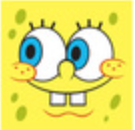
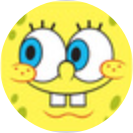
added round spongebob faces

diff --git a/client/app/scripts/controllers/modalCtrl.js b/client/app/scripts/controllers/modalCtrl.js
@@ -4,29 +4,29 @@ angular.module('FamilySleep').controller('ModalCrtl', function($uibModal, $log, 
 	var $ctrl = this;	 
 	var moodImages = [
 		{ 	name:'good',
-			image:'images/faces/good.PNG'
+			image:'images/faces/good.png'
 		}, 
 		{	name:'happy',
-			image:'images/faces/happy.PNG'
+			image:'images/faces/happy.png'
 		},
 		{	name:'nightmare',
-			image: 'images/faces/nightmare.PNG'
+			image: 'images/faces/nightmare.png'
 		},
 		{	name:'sneaky',
-			image: 'images/faces/sneaky.PNG'
+			image: 'images/faces/sneaky.png'
 		},
 		{	name:'tired',
-		 	image:'images/faces/tired.PNG'
+		 	image:'images/faces/tired.png'
 		},
 		{	name:'tired_more',
-		 	image:'images/faces/tired_more.PNG'
+		 	image:'images/faces/tired_more.png'
 		},
 		{	name:'tired',
-		 	image:'images/faces/tired.PNG'
+		 	image:'images/faces/tired.png'
 		}];
   $ctrl.items = moodImages;
 	//var avatars = [];
-  var avatar = 'images/avatars/momcircle.PNG';
+  var avatar = 'images/avatars/momcircle.png';
 	$ctrl.profile = avatar;
   //family members
   /****IMPORTANT I don't know how to add members dynamically**/

diff --git a/client/app/scripts/controllers/doughnut.js b/client/app/scripts/controllers/doughnut.js
@@ -12,7 +12,7 @@
  */
 angular.module('FamilySleep')
   .controller('DoughnutCtrl', function ($scope, sleepDataFactory) {
-  	 console.log("sleep in donut");
+  	 //sconsole.log("sleep in donut");
   	 console.log(sleepDataFactory);
   	 //$scope.data = sleepDataFactory.data;
   	 //$scope.data = [300, 500, 100];
